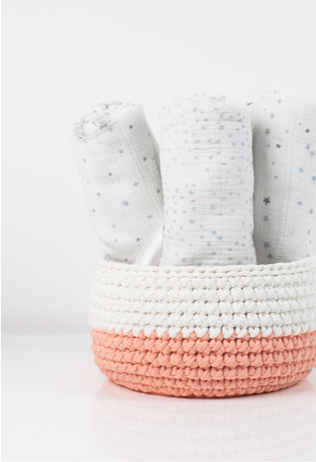
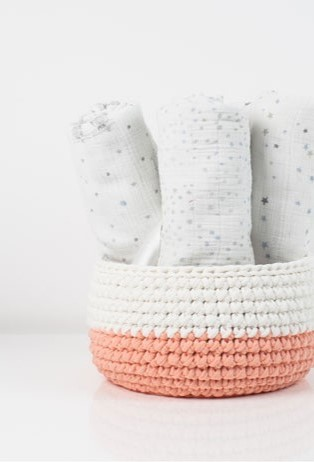
Замененил баговоное изображение на отредактированное, подложил серый фон под фото

diff --git a/source/sass/blocks/product-item.scss b/source/sass/blocks/product-item.scss
@@ -39,6 +39,10 @@
   }
 }
 
+.product-item__image-link {
+  background-color: var(--white-3);
+}
+
 .product-item__body {
   padding: 26px 28px 23px;
 
